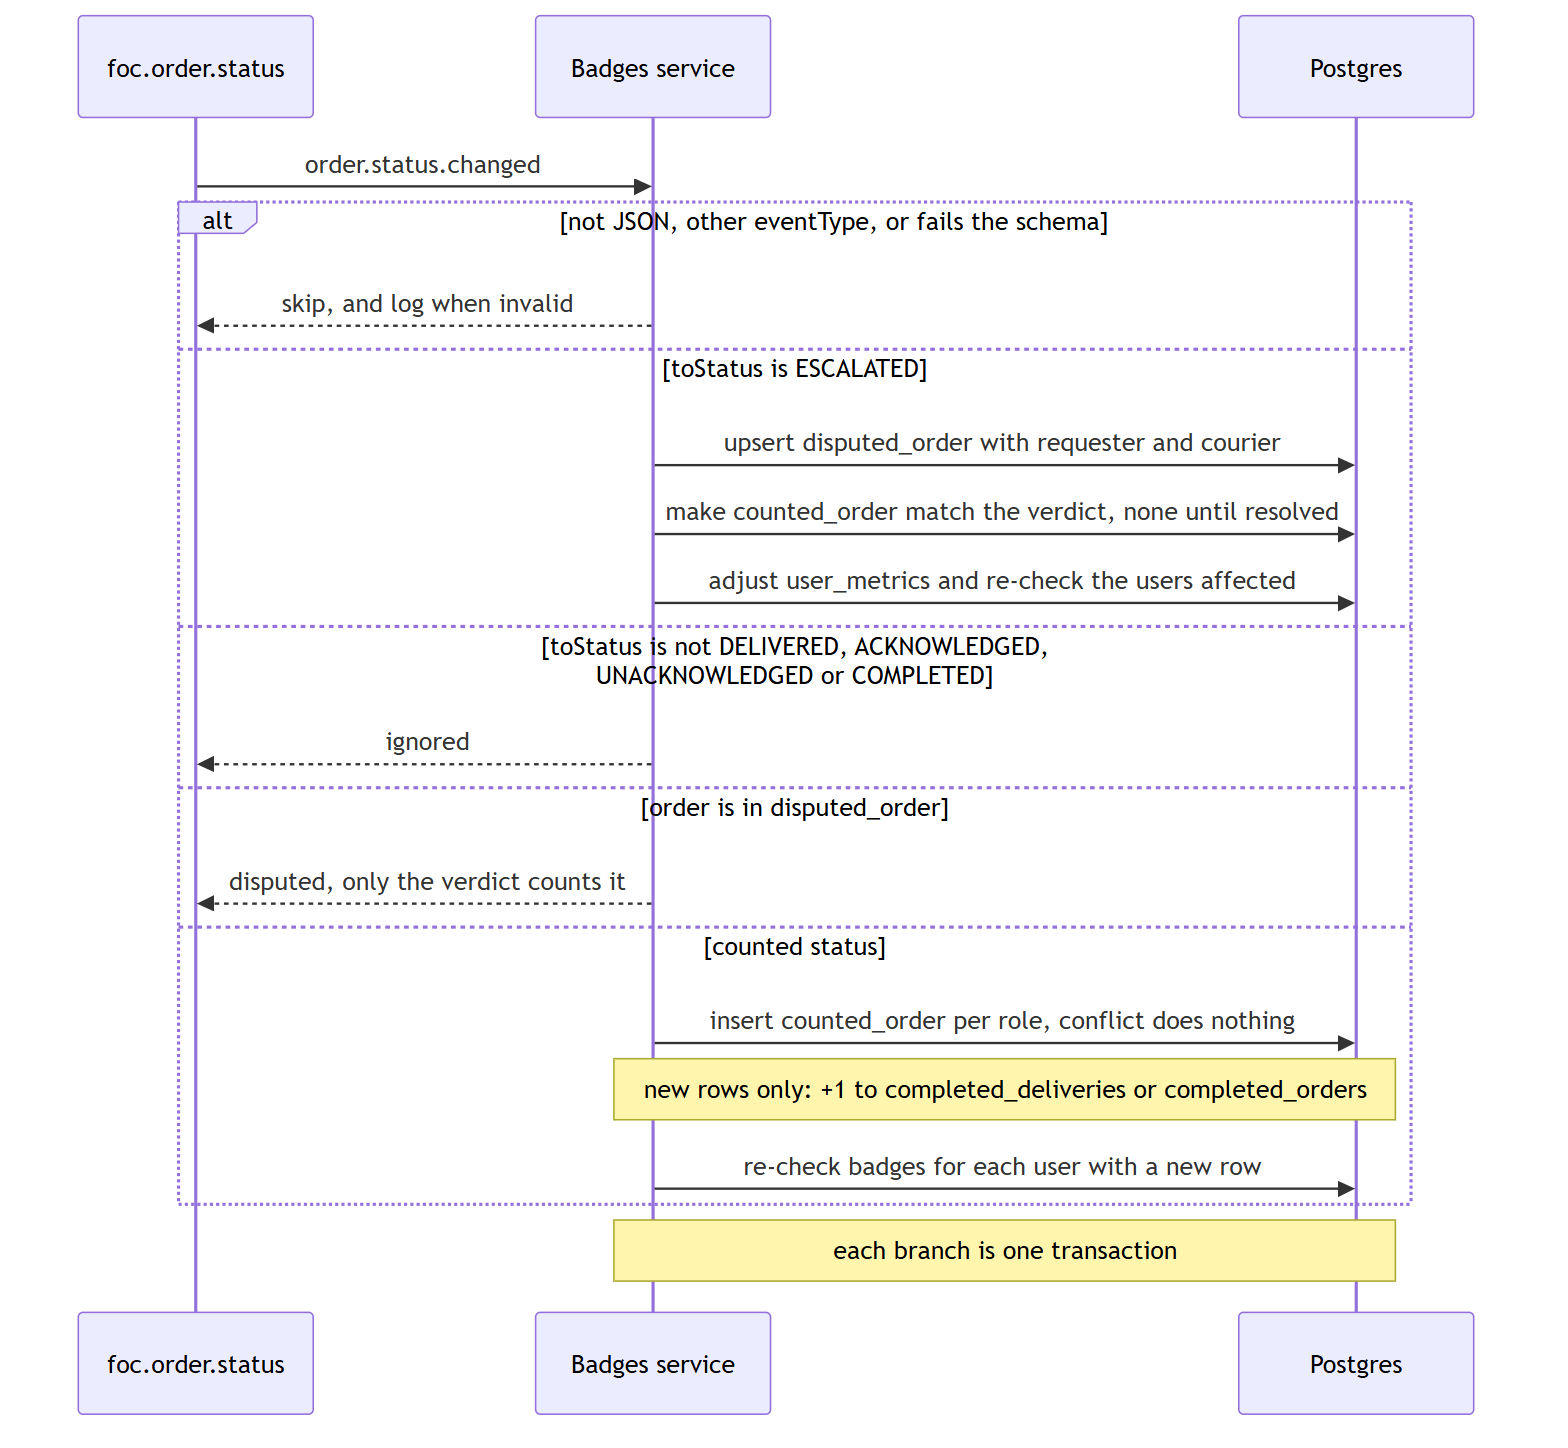
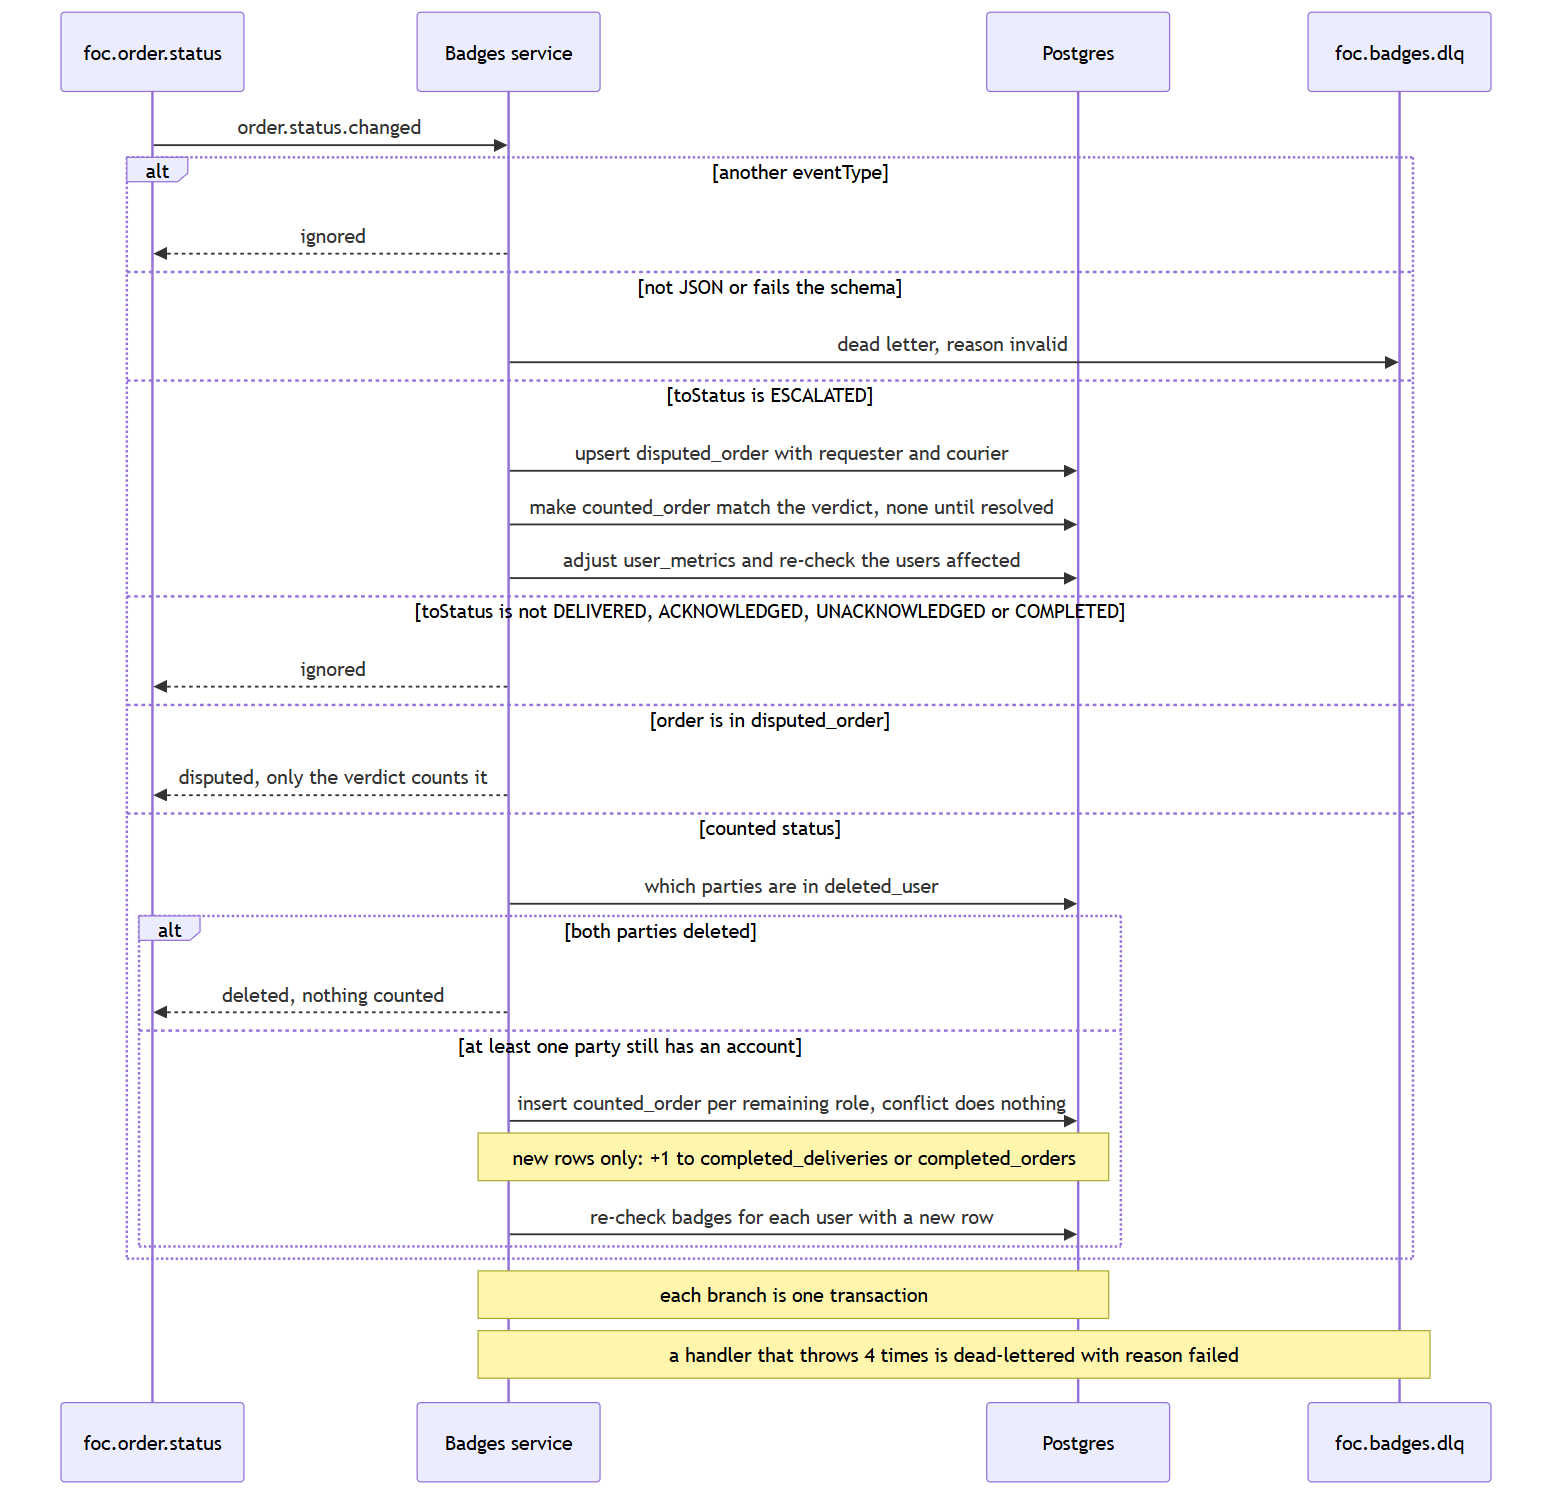
update badges docs

diff --git a/badges-service/docs/README.md b/badges-service/docs/README.md
@@ -32,6 +32,8 @@ An order escalated from `COLLECTED` was never counted, so escalation removes not
 
 ## Account deletion
 
+![Account deletion](seq-user-deleted.png)
+
 User publishes `UserDeleted` on foc.user.status once an account's six-month deletion period ends (User F5), in its own envelope (`type`, `data.userId`). Badges removes the user's metrics, badges and counted orders in one transaction and records the ID in `deleted_user`. Every later event checks that table: an order counts only for the party who still has an account, a rating for a deleted user is ignored, and a verdict counts the order only for the other party. A repeated `UserDeleted` is a no-op, and a replay can't bring the user's badges back.
 
 ## Rating updates
@@ -50,13 +52,13 @@ Every event re-checks the affected users against the whole catalog. A badge is h
 
 ![Read endpoint](seq-read.png)
 
-The profile reads stored state only, so a profile view never waits on Order or Rating. Badges are private: anyone other than the owner gets the same 404 as a route that does not exist, so the response does not reveal whether the user exists.
+The profile reads stored state only, so a profile view never waits on Order or Rating. The catalog is read from the database once and cached in memory until the next seed, so neither profile reads nor events query it each time. Badges are private: anyone other than the owner gets the same 404 as a route that does not exist, so the response does not reveal whether the user exists.
 
 ## Startup and catalog changes
 
 ![Startup](seq-startup.png)
 
-`src/catalog/badges.json` is upserted into `badge_catalog` before the server listens. Rows that did not change are not written. If any badge was added or changed, every user in `user_metrics` is re-checked against the new catalog, 1,000 at a time in user id order, in the background so the health probes keep answering. A new consumer group starts from the earliest offset Kafka still retains, so activity from before Badges was first deployed is read if the topics still hold it.
+`src/catalog/badges.json` is upserted into `badge_catalog` before the server listens. Rows that did not change are not written, and seeding clears the in-memory catalog cache. If any badge was added or changed, every user in `user_metrics` is re-checked against the new catalog, 1,000 at a time in user id order, in the background so the health probes keep answering. A new consumer group starts from the earliest offset Kafka still retains, so activity from before Badges was first deployed is read if the topics still hold it.
 
 ## Failure handling
 
@@ -66,5 +68,11 @@ The profile reads stored state only, so a profile view never waits on Order or R
 | Message has another `eventType` | Ignored, not logged as an error |
 | Handler throws, e.g. the database is down | Retried up to 4 attempts, waiting 200 ms × attempt between them, then logged, sent to `foc.badges.dlq`, and skipped so the partition keeps moving. If Kafka refuses the dead letter, the message is retried instead of lost |
 | No `KAFKA_BROKERS` | HTTP only. Badges never change |
+
+## Dead letters and replay
+
+![Dead-letter replay](seq-dlq.png)
+
+A message the consumer gives up on goes to `foc.badges.dlq` with its origin, reason, replay count and first failure time in headers (field list in [interfaces.md](interfaces.md#kafka)). The topic keeps it 30 days. `npm run replay:dlq`, run inside the badges pod, sends each dead letter written before the run started back through the handler for its original topic. A message that still fails is re-queued at the end of the topic; after its 5th failed replay or 30 days it is expired instead, so a message that can never succeed does not circle forever. Expired and dropped messages are written in full to the replay's error output so they can be applied by hand. The script exits non-zero when anything was re-queued.
 
 Every handler ignores what it has already applied, so events can be run through again safely. `npm run replay:dlq` replays the dead-letter topic, and a new `KAFKA_GROUP_ID` replays everything Kafka still holds; both are described in the [service README](../README.md#recovering-from-missed-or-failed-events). What a replay cannot recover (activity older than Kafka's retention, a verdict Admin failed to publish, a verdict for an escalation Badges never saw) is listed under [known limitations](../README.md#known-limitations).

diff --git a/badges-service/docs/schema.md b/badges-service/docs/schema.md
@@ -2,7 +2,7 @@
 
 Drizzle owns the schema. `src/database/schema.ts` is the source; `npm run db:generate` writes migrations to `drizzle/`, and the migrate Job runs them before each deploy (ADR-0011). Migrations `0000` through `0003` produce the tables below. `user_badge.badge_id` is the only foreign key; order and user ids are plain UUIDs from other services.
 
-`0001` added the parties and verdict to `disputed_order`. `0002` dropped the `job_run` table and `user_metrics.reconciled_at` when the scheduled poll was removed.
+`0001` added the parties and verdict to `disputed_order`. `0002` dropped the `job_run` table and `user_metrics.reconciled_at` when the scheduled poll was removed. `0003` added `deleted_user`.
 
 ## badge_catalog
 
